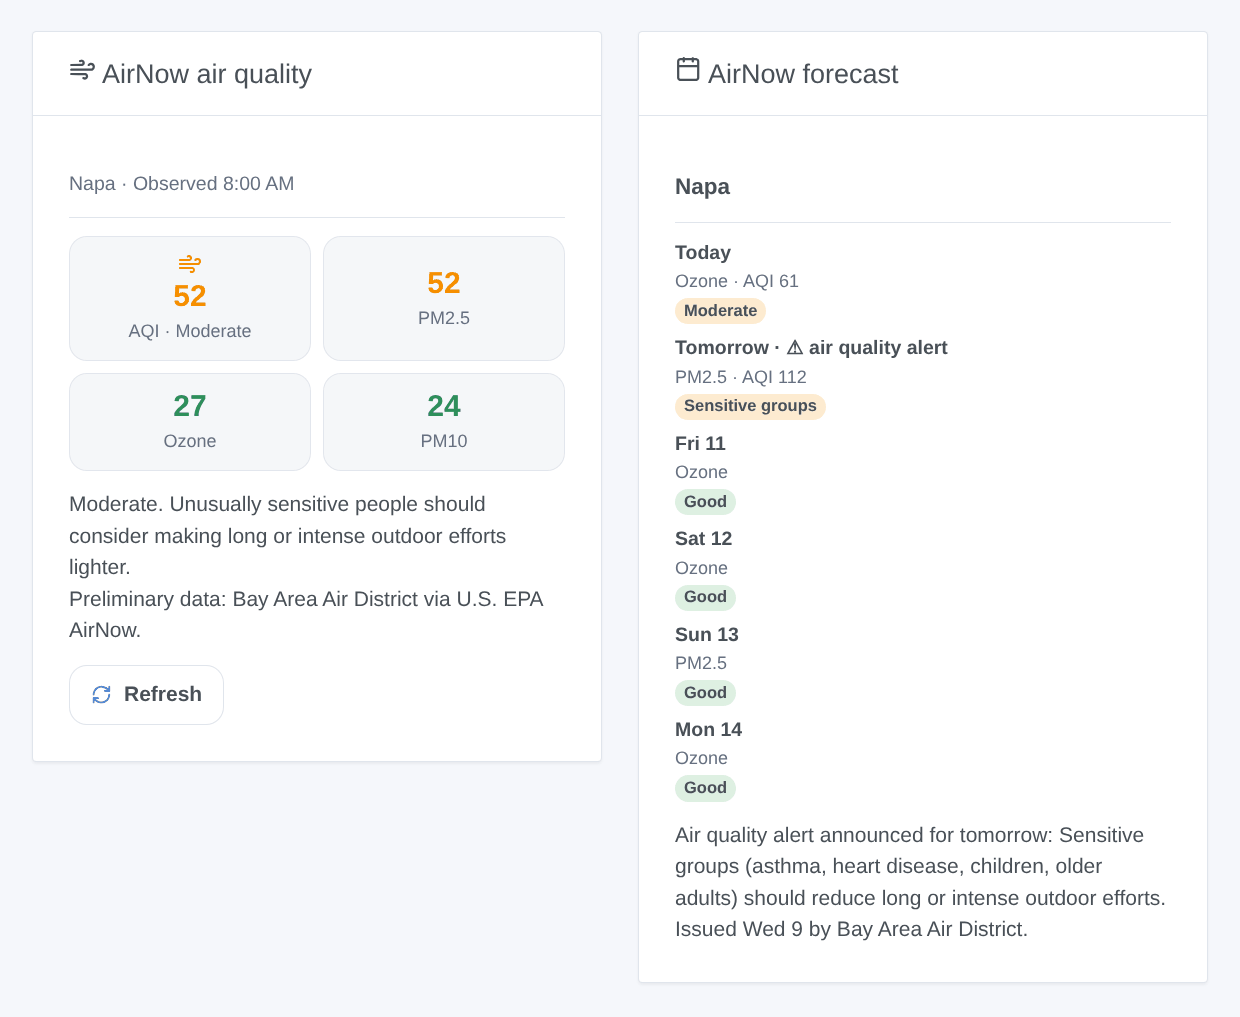
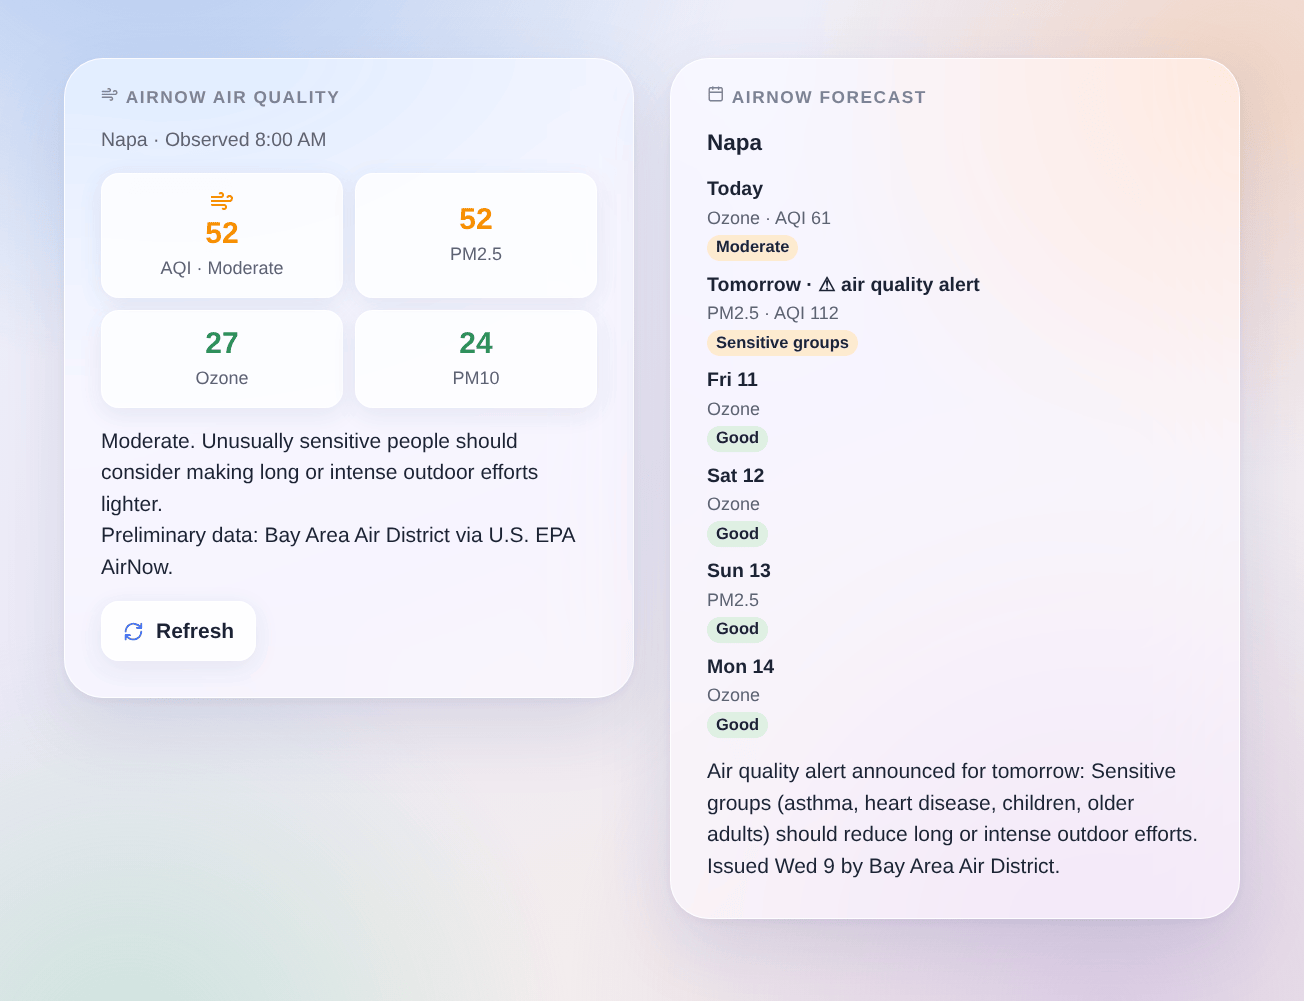
docs: widget illustrations in the Gladys 5 look (Horizon glass dashboard)
The illustrations used the Gladys v4 card look. render.sh now takes the styles of the current Gladys front, adds the Horizon dashboard theme (glass cards, uppercase title, default scene) and quantizes with libimagequant so the small colored dots survive the gradient.

Changed region(s): [[0.0, 0.0, 1.0, 1.0], [0.0, 0.8362, 0.2452, 1.0]]

diff --git a/docs/illustrations/index.html b/docs/illustrations/index.html
@@ -5,10 +5,25 @@
     <link rel="stylesheet" href="vendor/theme/package/dashboard.css" />
     <link rel="stylesheet" href="widget.css" />
     <link rel="stylesheet" href="dark-mode.css" />
+    <link rel="stylesheet" href="horizon.css" />
     <style>
       body {
-        background: #f5f7fb;
-        padding: 24px;
+        background: #fff;
+        margin: 0;
+        padding: 8px;
+      }
+      /* the page header of the theme shares the class name of the widget
+         header slot (a CSS module class in Gladys): keep it off the widget */
+      .card .header {
+        padding: 0;
+        background: none;
+        border-bottom: 0;
+      }
+      /* the dashboard scene, a margin around the cards for their shadow */
+      #stage {
+        display: inline-block;
+        overflow: hidden;
+        padding: 40px 44px 56px;
       }
       #row {
         display: flex;
@@ -31,7 +46,7 @@
     <script src="data.js"></script>
   </head>
   <body>
-    <div id="row"></div>
+    <div id="stage" class="glass-theme glassScene"><div id="row"></div></div>
     <script>
       if (new URLSearchParams(location.search).get('theme') === 'dark') {
         document.documentElement.classList.add('dark-mode');
